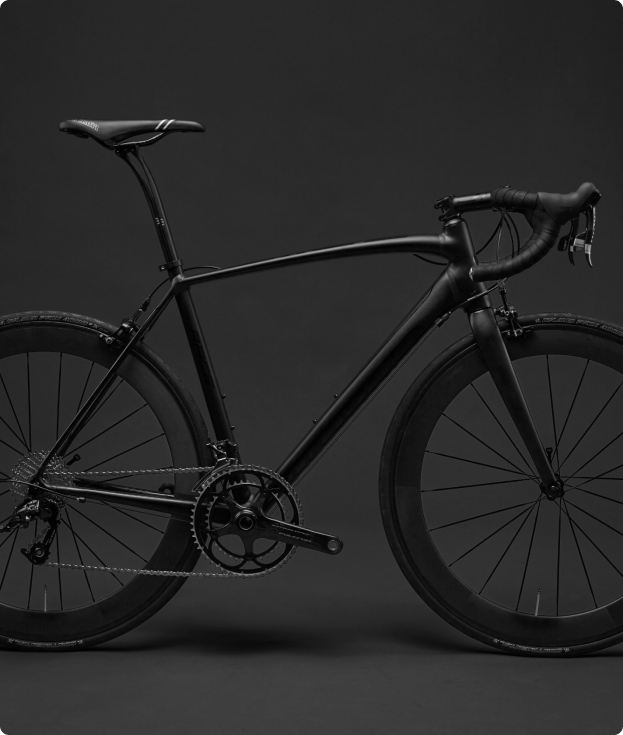
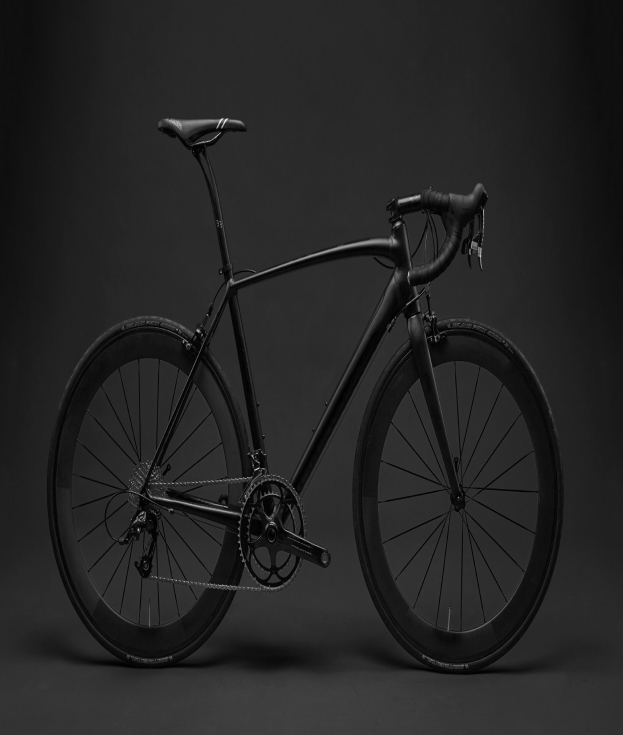
att

diff --git a/index.html b/index.html
@@ -11,7 +11,7 @@
   <header class="header-bg">
     <div class="header">
       <a href="./">
-        <img src="" alt="Bikcraft">
+        <img src="bikcraft.svg" alt="Bikcraft">
       </a>
     <nav aria-label="primaria">
       <ul class="header-menu">
@@ -31,7 +31,7 @@
       </p>
       <a href="./bicicletas.html"> Escolha a sua</a>
       </div>
-      <img src="" alt="Bicileta elétrica preta">
+      <img src="img/fotos/img intro.jpg" alt="Bicileta elétrica preta">
     </div>
   </main>
 

diff --git a/style.css b/style.css
@@ -112,3 +112,17 @@ img {
   align-self: end;
   padding-bottom: 80px;
 }
+
+.introducao h1 {
+  margin-bottom: 32px;
+  font-size: 32px;
+  line-height: 1.125;
+
+}
+
+.introducao p {
+  margin-bottom: 20px;
+  font-size: 24px;
+  line-height: 1.5;
+  color: #b2b2b2;
+}
